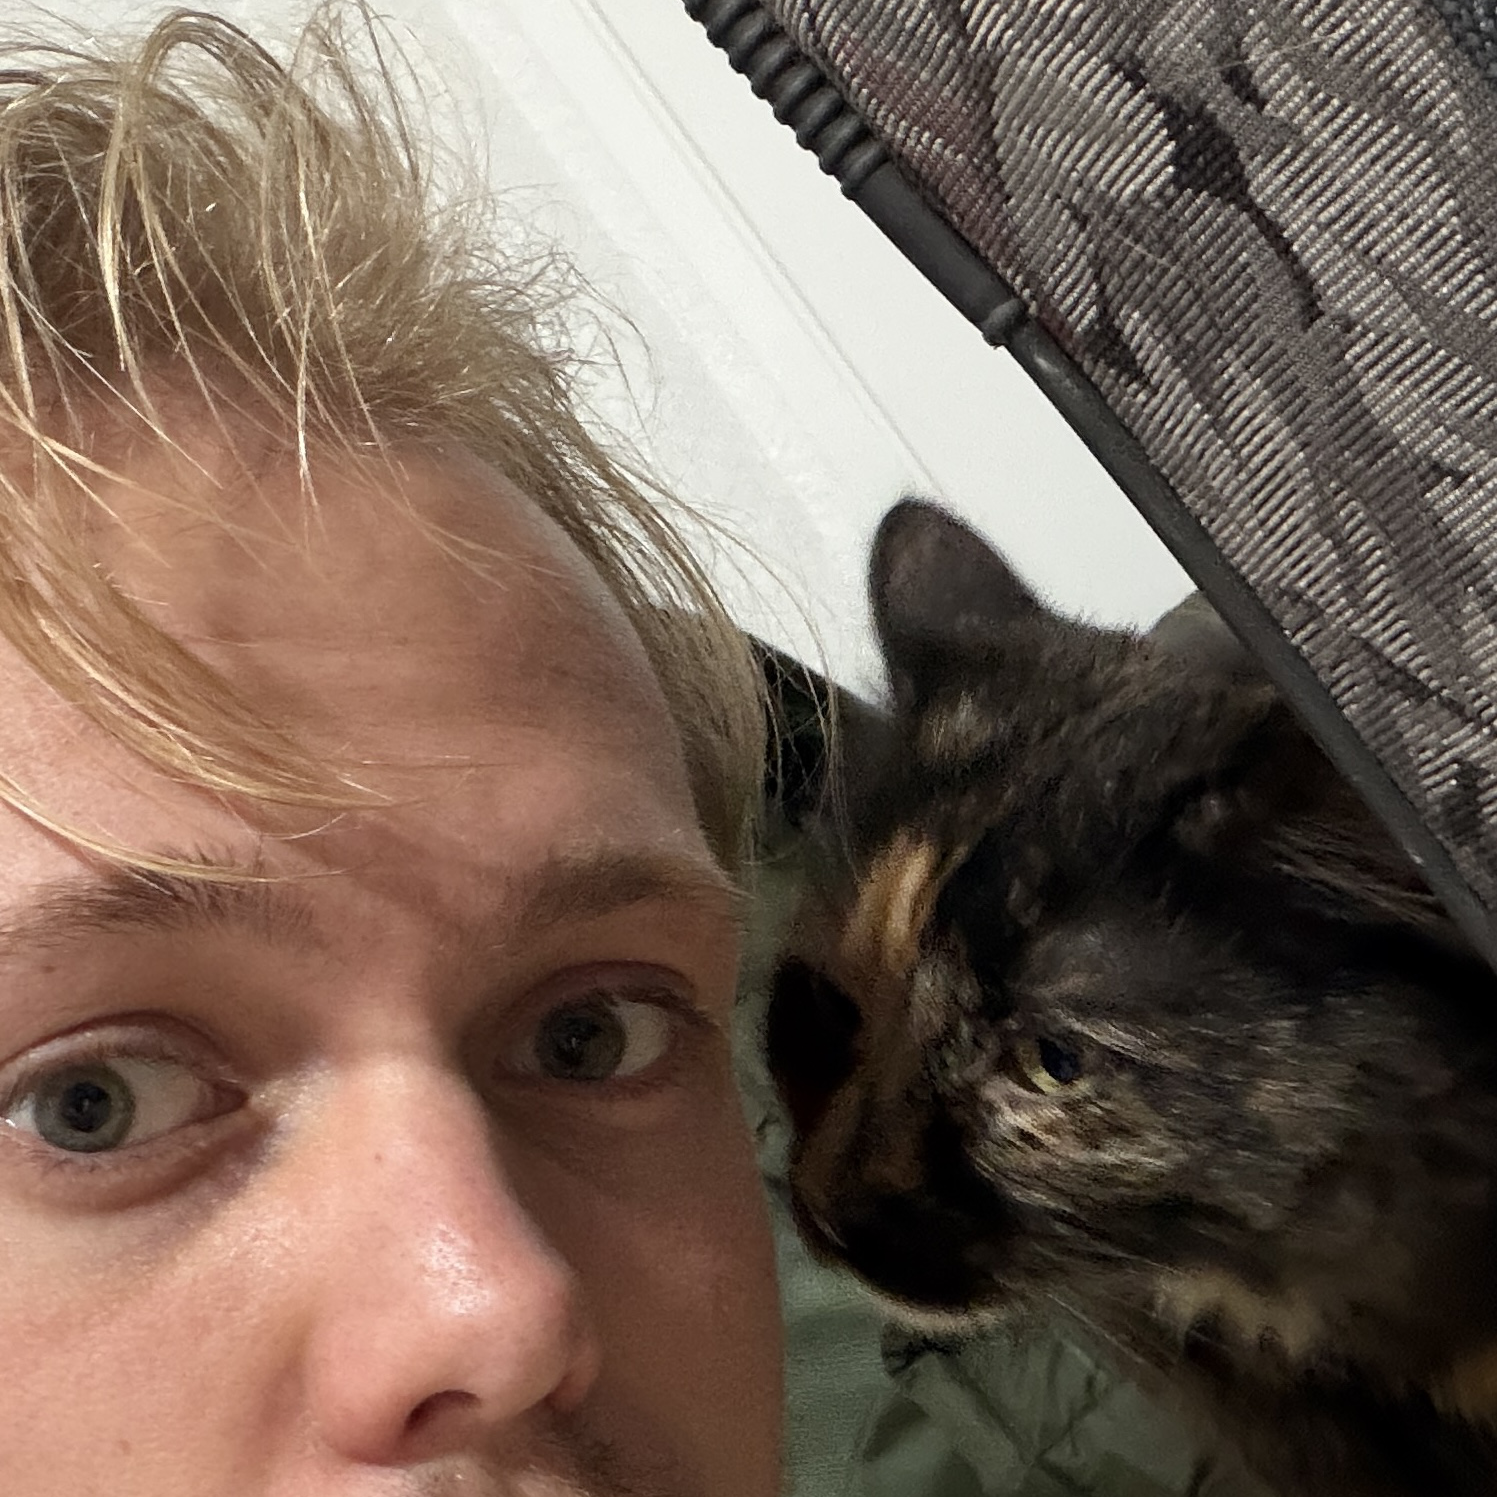
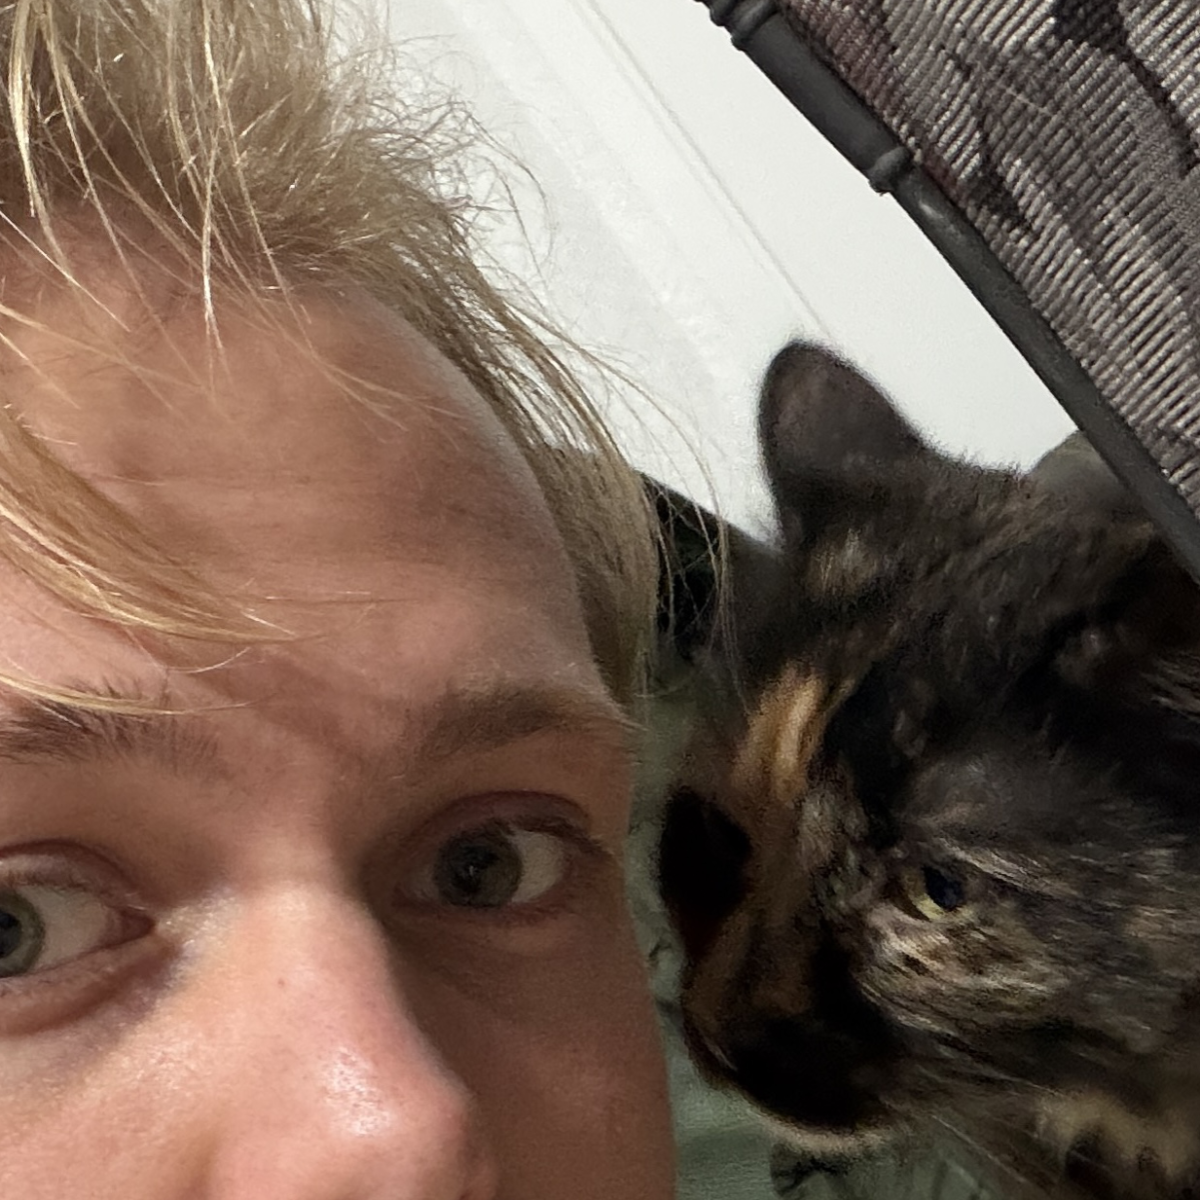
feat: Image optimizations and font change

diff --git a/index.html b/index.html
@@ -7,14 +7,18 @@
     <meta name="description" content="Parking page for all my random projects or online identities.">
     <link rel="icon" type="image/x-icon" href="/img/favicon.png">
     <title>ryun.dev</title>
+
+    <link rel="preconnect" href="https://fonts.googleapis.com">
+    <link rel="preconnect" href="https://fonts.gstatic.com" crossorigin>
+    <link href="https://fonts.googleapis.com/css2?family=BJCree:wght@400;500;600;700&family=Barlow+Condensed:ital,wght@0,100;0,200;0,300;0,400;0,500;0,600;0,700;0,800;0,900;1,100;1,200;1,300;1,400;1,500;1,600;1,700;1,800;1,900&family=Lora:ital,wght@0,400..700;1,400..700&family=Tiny5&display=swap" rel="stylesheet">
 </head>
 <body id="body">
     <header id="header">
         <div style="display: flex; flex-direction: column;">
-            <p id="header-text-1">site last modified July 30, 2026</p>
+            <p id="header-text-1">site last modified July 31, 2026</p>
             <div style="display: flex; flex-direction: row" id="header-text-2">
-                <p>view the latest changes&nbsp;</p>
-                <a href="https://github.com/ryunblu/ryun.dev/commit/master" target="_blank" rel="noopener noreferrer">here</a>
+                <p style="font-size: 12px">view the latest changes&nbsp;</p>
+                <a style="font-size: 12px" href="https://github.com/ryunblu/ryun.dev/commit/master" target="_blank" rel="noopener noreferrer">here</a>
             </div>
         </div>
     </header>
@@ -29,7 +33,7 @@
 
     <div id="middle">
         <nav id="left-nav">
-            <p style="font-weight: bold; line-height: 120%">Find out all about what <br>im up to below</p>
+            <p style="font-weight: 600; line-height: 120%">Find out all about what <br>im up to below</p>
             <p class="category-title">&nbsp;Info</p>
             <a class="list-item" id="about-button" role="button">&nbsp;&nbsp;-> Myself</a>
             <p class="category-title">&nbsp;Projects</p>
@@ -58,17 +62,17 @@
                 <p>hey hey, welcome to my corner of the internet ᓚᘏᗢ</p>
                 <p>names ryan - student / software engineer / owned by cat / etc</p>
                 <div style="display: flex; flex-direction: row; margin-bottom: 16px; overflow: auto;">
-                    <img class="photo" src="img/image_me_1.png" height="128" width="auto" alt="ryan photo 1"/>
-                    <img class="photo" src="img/image_me_2.png" height="128" width="auto" alt="ryan photo 2"/>
-                    <img class="photo" src="img/image_me_3.png" height="128" width="auto" alt="ryan photo 3"/>
-                    <img class="photo" src="img/image_me_4.png" height="128" width="auto" alt="ryan photo 4"/>
+                    <img class="photo" src="img/image_me_1.png" height="1200" width="1200" alt="ryan photo 1"/>
+                    <img class="photo" src="img/image_me_2.png" height="1200" width="1200" alt="ryan photo 2"/>
+                    <img class="photo" src="img/image_me_3.png" height="1200" width="1200" alt="ryan photo 3"/>
+                    <img class="photo" src="img/image_me_4.png" height="1200" width="1200" alt="ryan photo 4"/>
                     <div style="flex-grow: 1; background-color: darkgreen"></div>
                 </div>
                 <p>im always working on something new! right now im working on a teensy powered handheld personal radio communication device called the SN-PDA</p>
                 <p style="margin-bottom: 13px">feel free to check them out with the nav window on the left, more recent projects are higher</p>
                 <p style="color: grey; margin-bottom: 4px">..\myself.exe student</p>
                 <div style="display: flex; flex-direction: row; margin-bottom: 16px; overflow: auto;">
-                    <img style="margin-right: 6px" src="img/UCR_Icon.png" height="93" width="auto" alt="ucr icon"/>
+                    <img style="margin-right: 6px; height: 103px; width: auto" src="img/UCR_Icon.png" height="724" width="674" alt="ucr icon"/>
                     <div>
                         <p>undergrad student at University of California, Riverside for computer science</p>
                         <p>class of 2027</p>

diff --git a/index.css b/index.css
@@ -1,15 +1,19 @@
 a {
   color: lightgreen;
+  font-family: "Barlow Condensed", sans-serif;
   font-style: normal;
+  font-size: 17px;
   margin-top: 0;
   margin-bottom: 6px;
   text-decoration: none;
 }
 
 p {
+  font-family: "Barlow Condensed", sans-serif;
   font-style: normal;
+  font-size: 17px;
   margin-top: 0;
-  margin-bottom: 6px;
+  margin-bottom: 5px;
 }
 
 #body {
@@ -41,7 +45,6 @@ p {
   display: flex;
   justify-content: right;
   margin: 0 5px 0 0;
-  font-size: 12px;
 }
 
 #start-anim {
@@ -56,7 +59,7 @@ p {
   grid-column: 1;
   grid-row: 1;
   height: 80px;
-  width: auto;
+  width: 56px;
 }
 
 #cat-area {
@@ -85,7 +88,7 @@ p {
 }
 
 .category-title {
-  font-weight: bolder;
+  font-weight: 600;
   background-color: #004b0b;
 }
 
@@ -128,6 +131,8 @@ p {
 .photo {
   margin-right: 8px;
   border: 1px solid green;
+  height: 128px;
+  width: 128px;
 }
 
 #page-snpda {
